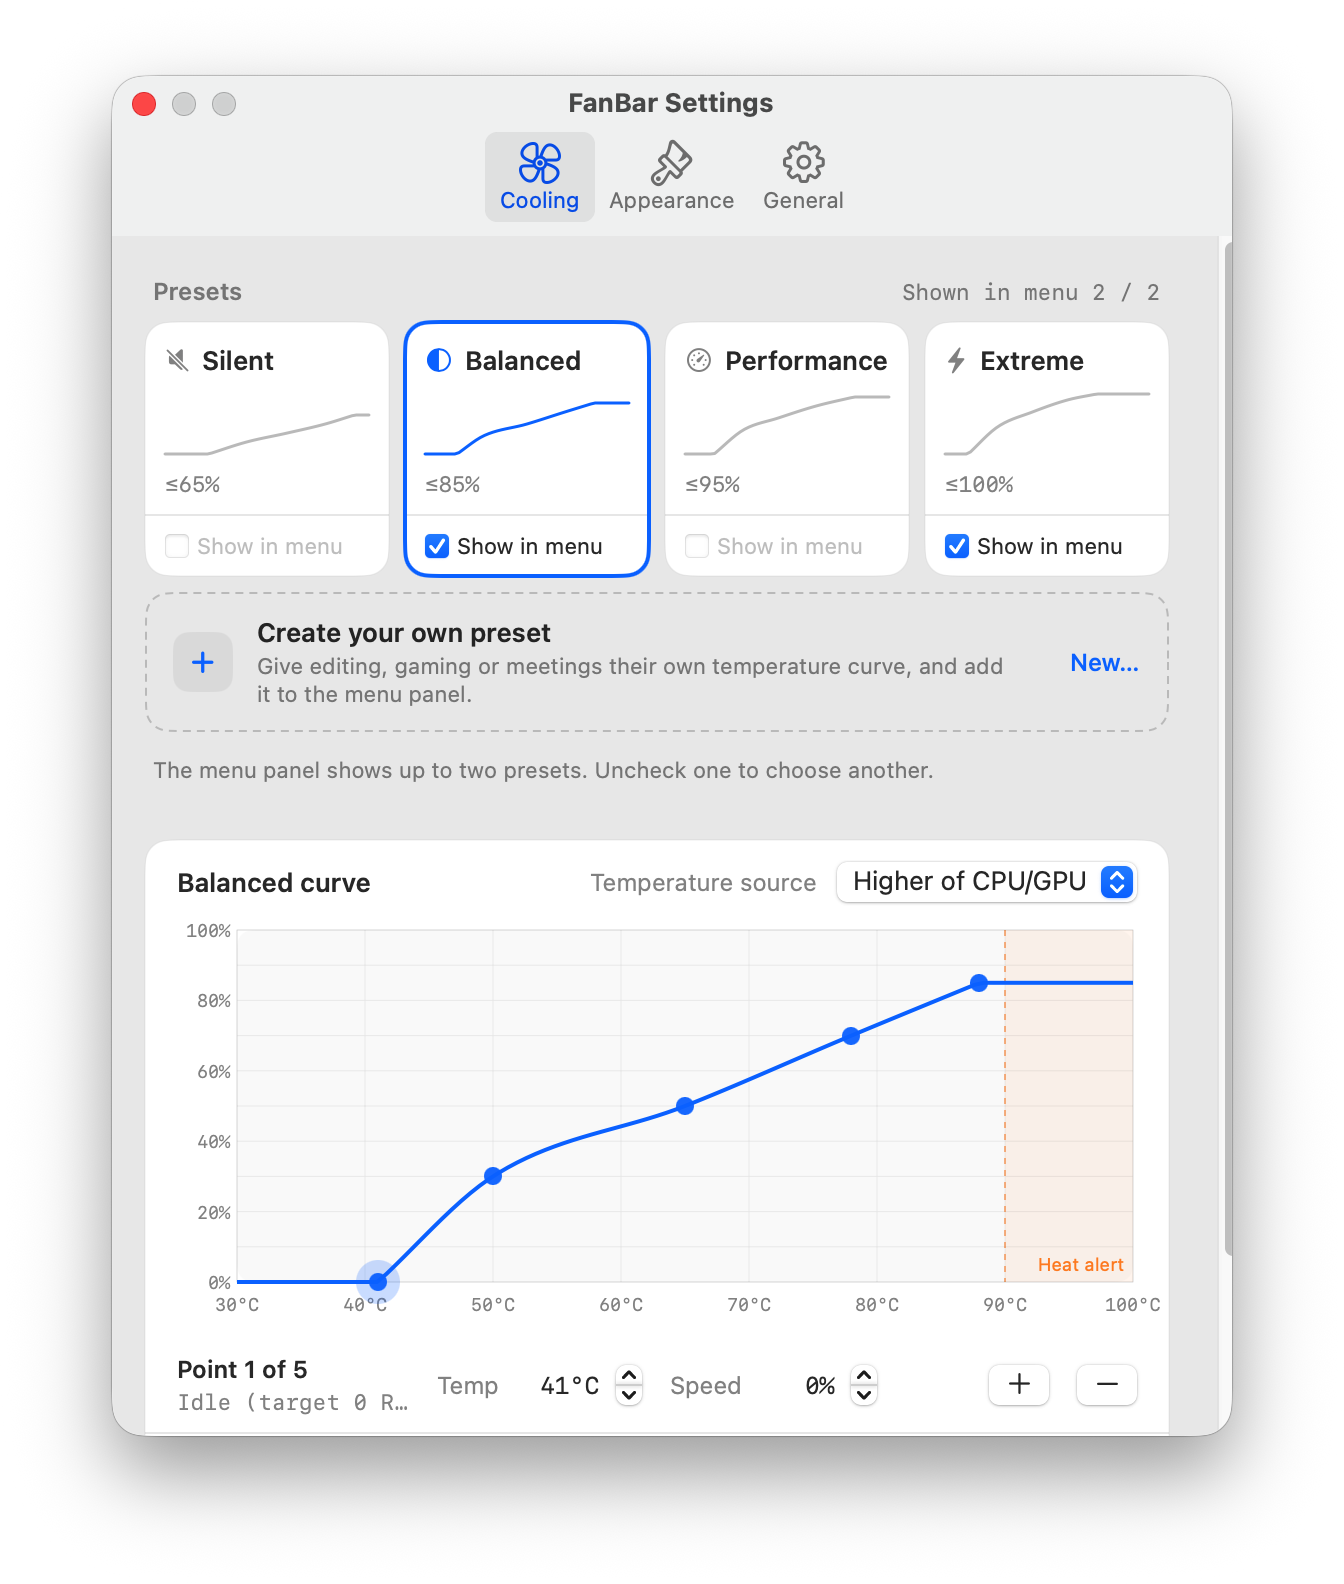
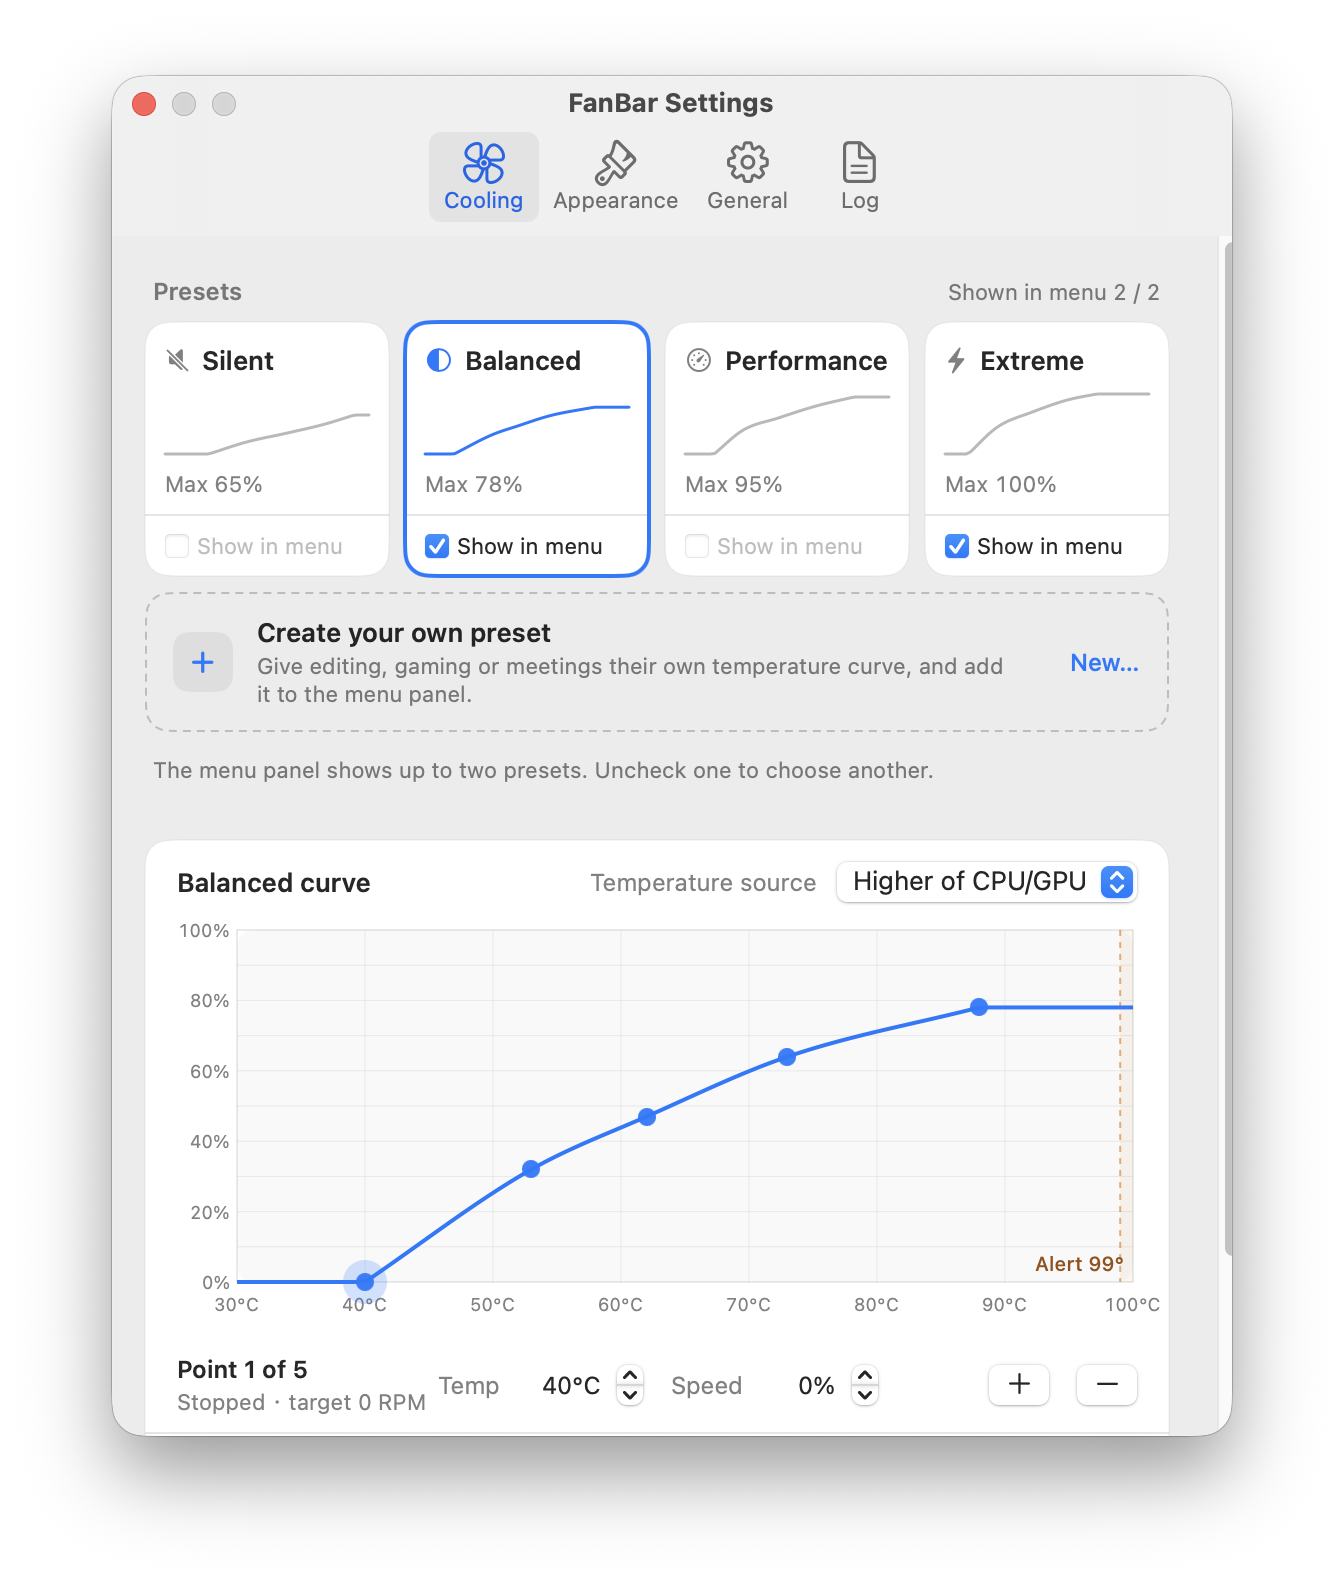
docs: refresh README screenshots for the redesigned panel and settings
Recapture the menu, Cooling, and General screenshots in all five
languages. Keep the curve inspector's target on one line and the alert
label inside the plot, both visible in the new captures.

diff --git a/Sources/FanBar/FanCurveEditorView.swift b/Sources/FanBar/FanCurveEditorView.swift
@@ -161,13 +161,14 @@ struct FanCurveEditorView: View {
                 VStack(alignment: .leading, spacing: 2) {
                     Text(fanBarFormat("控制点 %d / %d", "Point %d of %d", index + 1, points.count))
                         .font(.system(size: 12, weight: .semibold))
-                    // Two lines rather than truncating the RPM target mid-word.
                     Text(targetSummary(for: point.fraction))
                         .font(.system(size: 11).monospacedDigit())
                         .foregroundColor(.secondary)
-                        .lineLimit(2)
-                        .fixedSize(horizontal: false, vertical: true)
+                        .lineLimit(1)
                 }
+                // Sized to its text so the RPM target is never truncated or wrapped mid-phrase;
+                // the spacer before the +/- buttons absorbs the difference.
+                .fixedSize()
                 .frame(minWidth: 116, alignment: .leading)
 
                 labeledStepper(
@@ -678,7 +679,8 @@ struct FanCurveCanvas: View {
                 .font(.system(size: 10, weight: .medium).monospacedDigit())
                 .foregroundColor(alertPalette.warmInk)
                 .fixedSize()
-                .position(x: plot.maxX - 26, y: plot.maxY - 9)
+                .frame(width: 96, alignment: .trailing)
+                .position(x: plot.maxX - 52, y: plot.maxY - 9)
         }
     }
 

diff --git a/docs/screenshots/README.md b/docs/screenshots/README.md
@@ -1,6 +1,6 @@
 # README screenshots
 
-The PNG images referenced by the five project READMEs were captured on October 16, 2026 from a Developer ID–signed build of the `feature/custom-presets` branch, so they show the custom-preset entry point on the Cooling pane.
+The menu, Cooling, and General PNGs were recaptured on October 19, 2026 from a local build of the `codex/menu-panel-glass` branch, so they show the redesigned menu panel (fan status header, speed bands, level-colored resources) and the matching settings. The Appearance PNGs are from the October 16, 2026 capture of `feature/custom-presets`; that pane did not change.
 
 Each language (`en`, `zh-CN`, `zh-TW`, `ja`, `ru`) has four captures:
 
@@ -11,4 +11,4 @@ Each language (`en`, `zh-CN`, `zh-TW`, `ja`, `ru`) has four captures:
 
 All final PNGs are real macOS window screenshots, including window chrome and transparent shadows. Settings screenshots show the initial viewport; longer panes scroll. No interface or sensor values were generated or retouched.
 
-Capture processes used temporary launch arguments for the language, selected settings tab, light appearance, classic app icon, and disabled automatic update checks. They also hid saved custom presets and showed the default Balanced selection with Balanced and Extreme in the menu panel, so every language shows the same state. The user's saved preferences and the installed FanBar instance were left unchanged. The older JPEG files remain for historical references.
+Capture processes used temporary launch arguments (`-fanbar.language`, `-fanbar.settingsSelectedTab`) with light appearance and the classic app icon. The October 19 menu captures show live sensor history, so the temperature chart can include short gaps where the app was relaunched. They also hid saved custom presets and showed the default Balanced selection with Balanced and Extreme in the menu panel, so every language shows the same state. The user's saved preferences and the installed FanBar instance were left unchanged. The older JPEG files remain for historical references.
